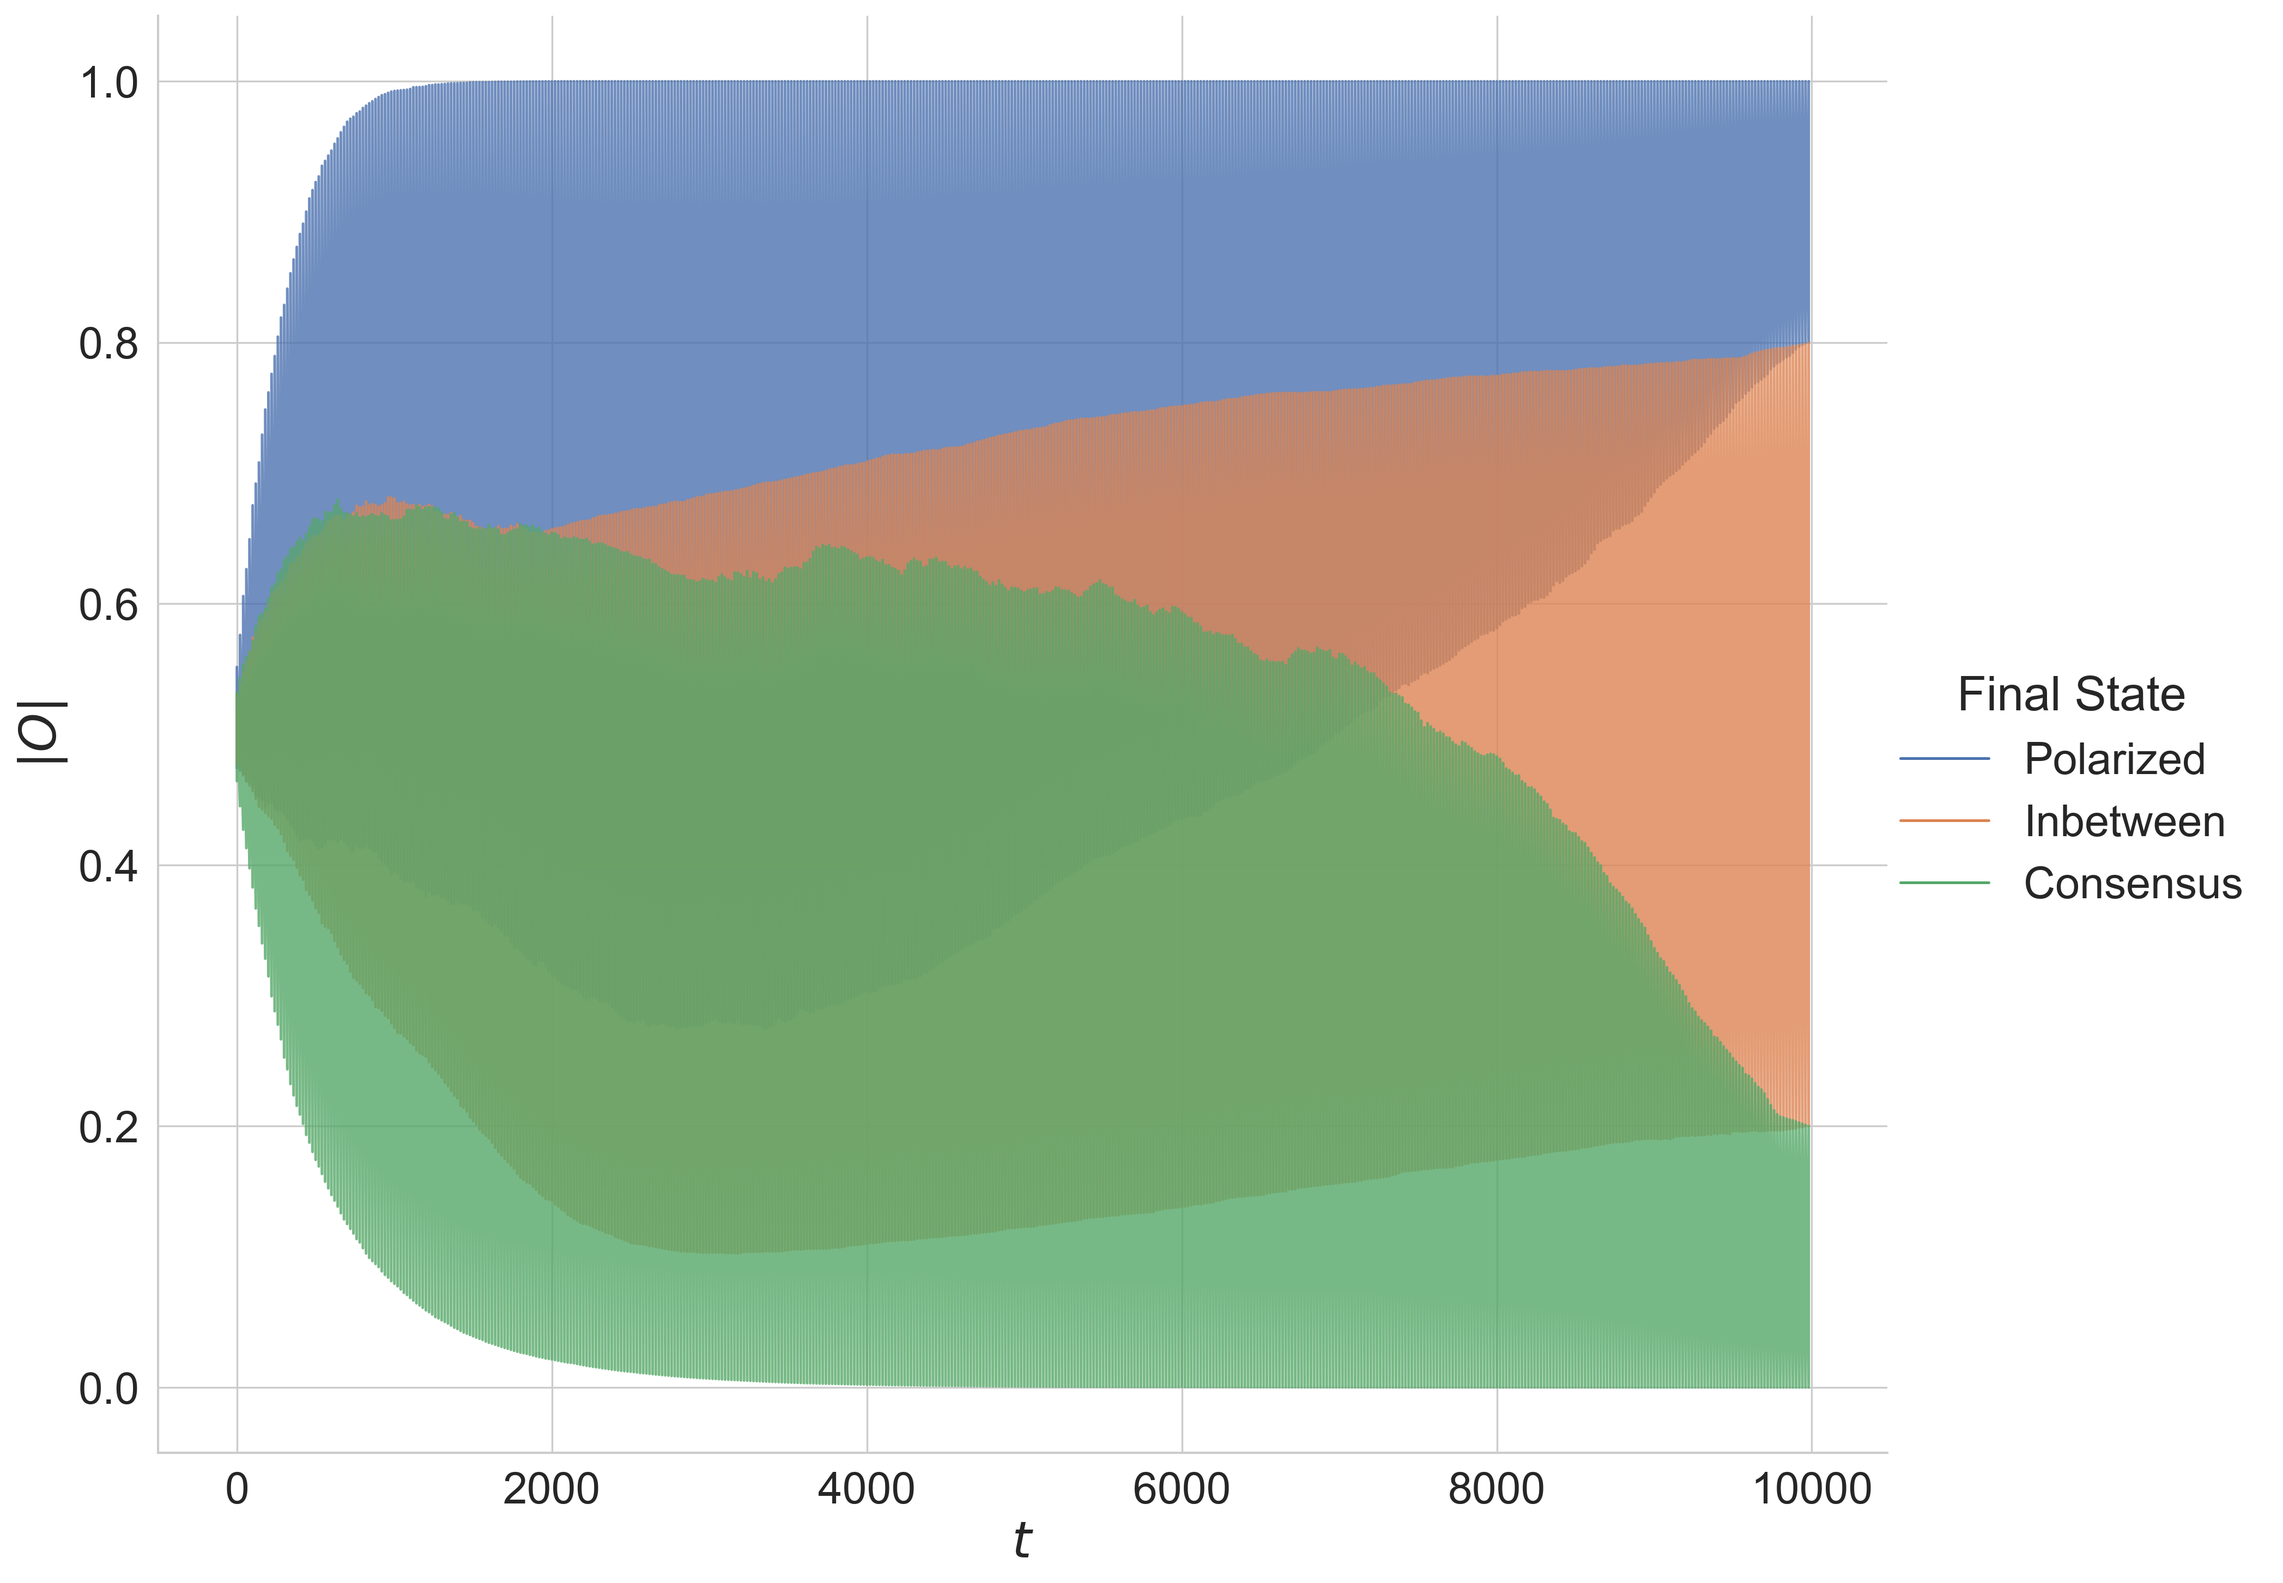
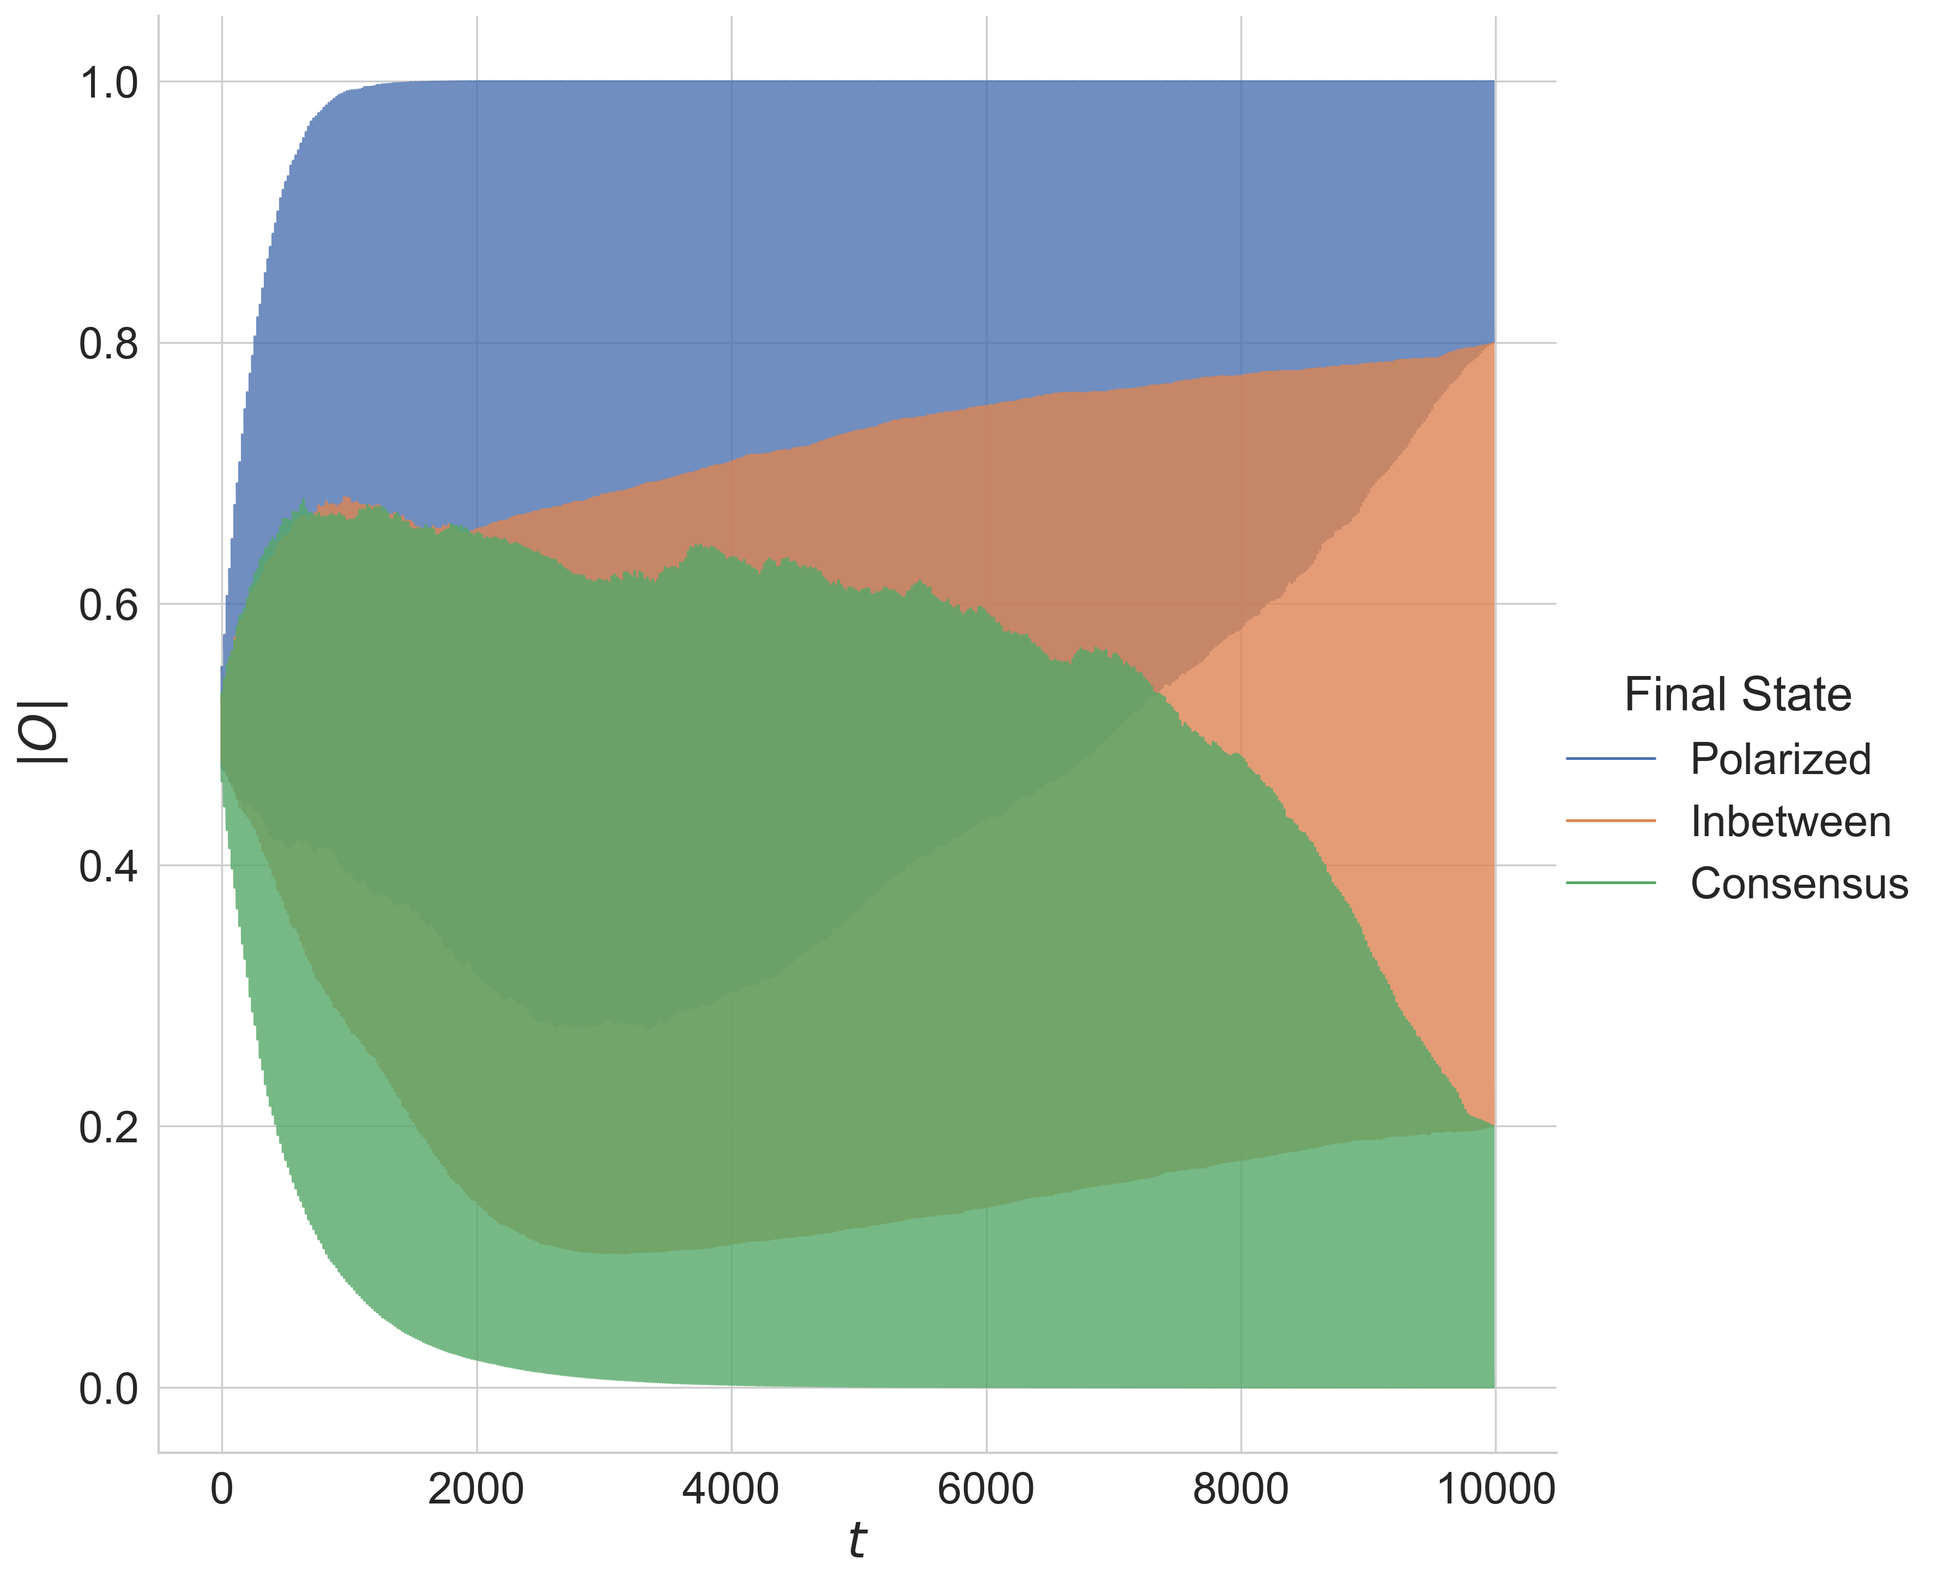
point of no return plot

diff --git a/LaDoN/ladon/load_files_over_time.py b/LaDoN/ladon/load_files_over_time.py
@@ -465,7 +465,7 @@ g = sns.relplot(
     units="Final State",
     hue_order=["Polarized", "Inbetween", "Consensus"],
     estimator=None,
-    aspect=1.2,
+    aspect=1,
     height=10
     # linewidth = 0.1
     # palette=blue_pallette,
